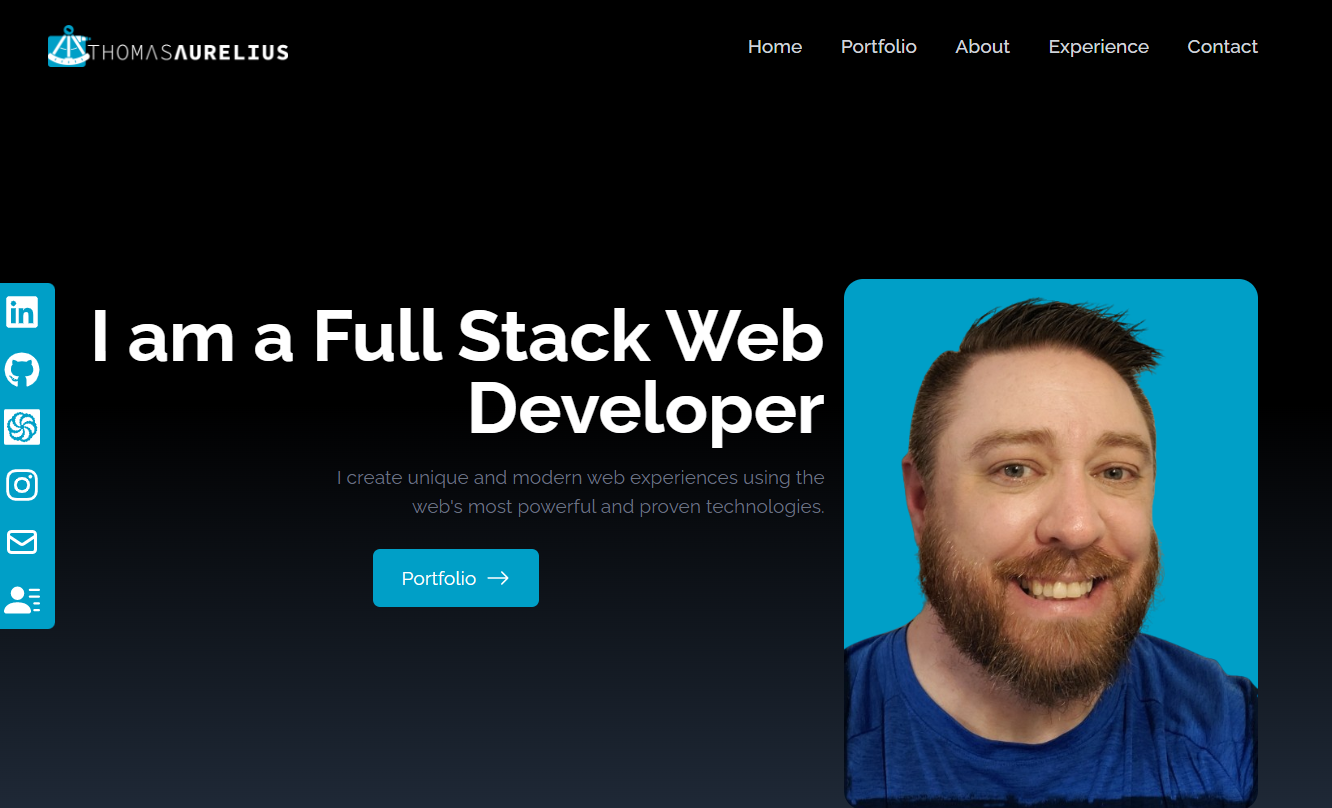
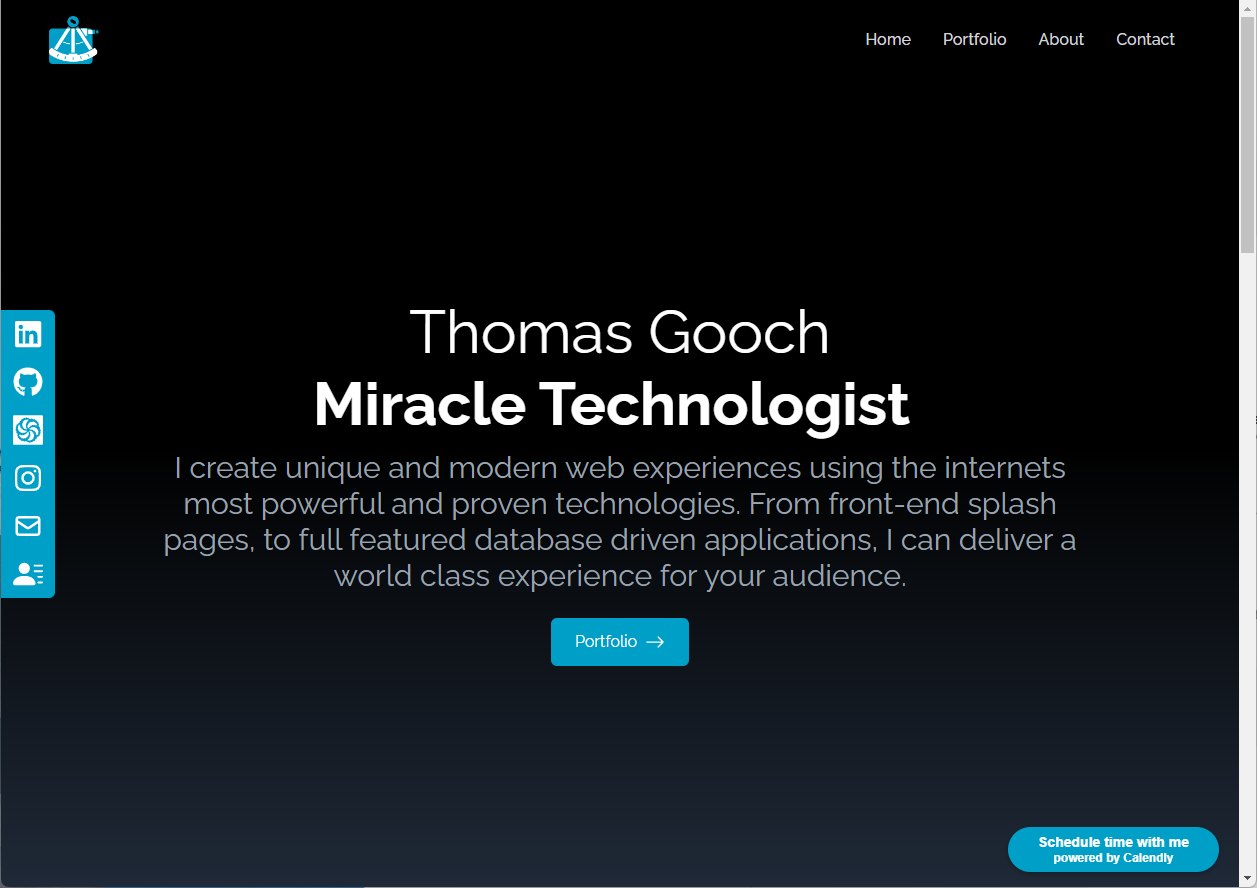
update to thomasgooch.dev

diff --git a/src/components/Contact.js b/src/components/Contact.js
@@ -10,12 +10,12 @@ export default function Contact() {
          </div>
 
          <div className='flex justify-center items-center'>
-            <form action="https://formsubmit.co/thomas.aurelius.widmer@gmail.com" method='POST' className='flex flex-col w-full md:w-1/2 mx-auto'>  
+            <form action="https://formsubmit.co/d2d59d00764163f2afb4245d15e42566" method='POST' className='flex flex-col w-full md:w-1/2 mx-auto'>  
                <input type="text" name="name" placeholder='Enter your name' className='p-2 bg-transparent border-2 rounded-md text-white focus:outline-none'/>
                <input type="email" name="email" placeholder='Enter your email' className='my-4 p-2 bg-transparent border-2 rounded-md text-white focus:outline-none'/>
                <textarea name="message" placeholder='Enter your message' rows="10" className='p-2 bg-transparent border-2 rounded-md text-white focus:outline:none'>
                </textarea>
-               <input type="hidden" name="_next" value="https://thomasaurelius.com/thanks/index.html"></input>
+               <input type="hidden" name="_next" value="https://thomasgooch.dev/thanks/index.html"></input>
                <input type="text" name="_honey" className='display-none' />   
                <input type="hidden" name="_subject" value="New submission!"></input>
 

diff --git a/src/components/Home.js b/src/components/Home.js
@@ -2,7 +2,6 @@ import React from 'react'
 import { BsArrowRight } from 'react-icons/bs'
 import { Link } from 'react-scroll'
 import Typewriter from 'typewriter-effect';
-import herologo from '../assets/herologo.png'
 
 
 export default function Home() {
@@ -10,7 +9,7 @@ export default function Home() {
     <section name="home" className='home-section h-full w-full bg-gradient-to-b from-black via-black to-gray-800 text-white pt-20  lg:px-12 md:pt-60 text-center md:text-right' >
       <article className='max-w-screen-lg mx-auto flex flex-col items-center justify-center h-full px-4 md:flex-row xs:text-center'>
          <div className='flex flex-col justify-center h-full'>
-         <img src={herologo} alt="logo" className='heroTitle pb-8 xs:pb-2 self-center' />
+         <h1 className='text-center text-6xl pb-3'>Thomas Gooch</h1>
             <h2 className='text-3xl sm:text-6xl px-4 font-bold text-white text-center'>
             
             <Typewriter

diff --git a/src/components/Footer.js b/src/components/Footer.js
@@ -10,7 +10,7 @@ export default function Footer() {
       <article class="footer bg-gradient-to-b to-gray-800 from-black text-white  lg:px-12">
 
 			<h3 className='font-bold'>Contact me!</h3>
-			<a href="mailto:thomas.aurelius.widmer@gmail.com" className="footer_link  md:text-2xl ">thomas.aurelius.widmer@gmail.com</a>
+			<a href="mailto:thomas.e.gooch@gmail.com" className="footer_link  md:text-2xl ">thomas.e.gooch@gmail.com</a>
 			<ul className="social-list my-4">
 				<li className="social-list_item">
 					<a className="social-list_link" href="https://www.codewars.com/users/ThomasAurelius" target="_blank" rel="noreferrer">
@@ -40,7 +40,7 @@ export default function Footer() {
 			</ul>
 
 			<div className="final">
-				<small><span>&copy;</span> <strong>Thomas Aurelius aka Thomas Gooch </strong></small>
+				<small><span>&copy;</span> <strong> Thomas Gooch / Thomas Aurelius </strong></small>
 			</div>
 		</article>
     

diff --git a/thanks/src/components/Home.js b/thanks/src/components/Home.js
@@ -12,7 +12,7 @@ export default function Home() {
             <h2 className='text-4xl sm:text-7xl px-4 font-bold text-white'>Thank you for contacting me!</h2>
             <p className='text-gray-500 text-2xl py-4 px-4 max-w-md self-end'>I will be in touch shortly!</p>
             <div className="self-center">
-               <a href="https://thomasaurelius.com/">
+               <a href="https://thomasgooch.dev/">
 
                   <button className='group text-white w-fit px-6 py-3 my-2 flex items-center rounded-md accent-color cursor-pointer  '>
                      Home

diff --git a/public/index.html b/public/index.html
@@ -28,7 +28,7 @@
       work correctly both with client-side routing and a non-root public URL.
       Learn how to configure a non-root public URL by running `npm run build`.
     -->
-    <title>Thomas Aurelius Portfolio</title>
+    <title>Thomas Gooch Portfolio</title>
   </head>
   <body>
     <noscript>You need to enable JavaScript to run this app.</noscript>

diff --git a/src/index.css b/src/index.css
@@ -17,7 +17,7 @@
 }
 
 .navlogo {
-  width: 200px;
+  width: 50px;
 }
 
 .accent-color {
